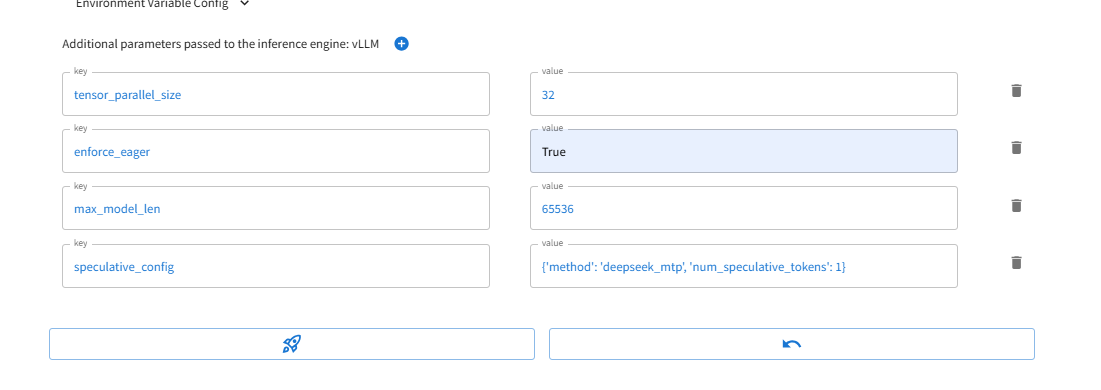
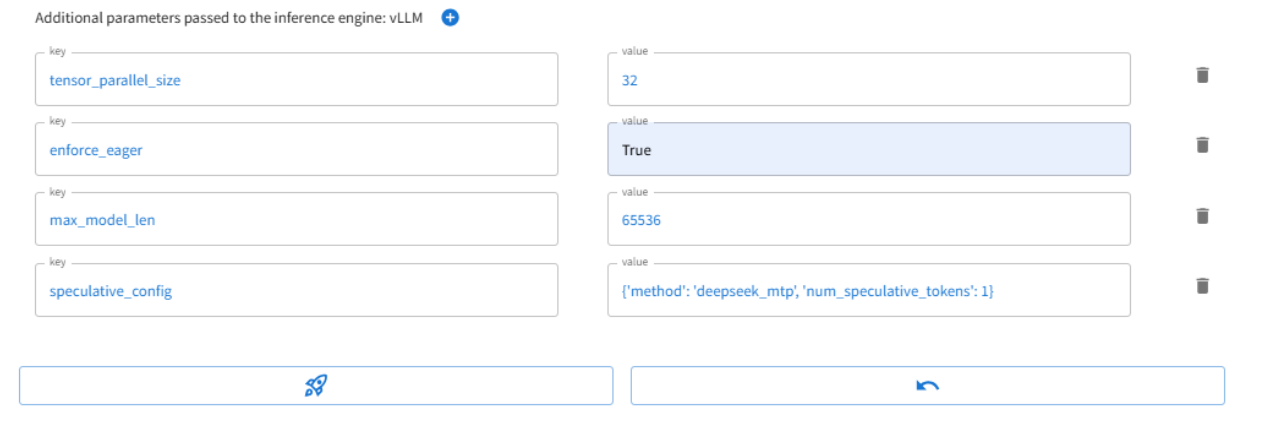
update doc

diff --git a/README.md b/README.md
@@ -179,6 +179,7 @@ https://github.com/xorbitsai/xoscar/pull/174
 | DS Familiy | tp32 | 
 | Qwen3 235B | tp16 | 
 | Qwen3 14B  | tp4, tp8 |
+| Qwen3 14B AWQ | tp2, tp4, tp8 |
 | Qwen3 30B  | tp2, tp4 | 
 | Qwen3 32B  | tp4, tp8 | 
 | text2vec  |  tp1, tp2, tp4 |  
@@ -282,8 +283,10 @@ gpu index: GPU ID列表。列表数= TP * instance_nums。
 
 启动模型需要的vllm config 如下:  
 
-tensor_parallel_size: 张量并行数 
-enforce_eager: true  
+tensor_parallel_size: 张量并行数  
+
+enforce_eager: True  
+
 max_model_len: 模型最大上下文  
 
 对于DS 系列, 如果要开启MTP, 就需要填充字段speculative_config。  
@@ -291,8 +294,10 @@ max_model_len: 模型最大上下文
 speculative_config:{'method': 'deepseek_mtp', 'num_speculative_tokens': 1}
 ![Alt text](./images/index/image-5.png)
 
-如果模型原生支持扩充上下文。可以填充字段rope_scaling。 
+如果模型原生支持扩充上下文, 可以填充字段rope_scaling。  
+
 rope_scaling:{'rope_type': 'yarn', 'factor': 4.0, 'original_max_position_embeddings': 32768}
+
 ![Alt text](./images/index/image-6.png)
 
 ## 备注
